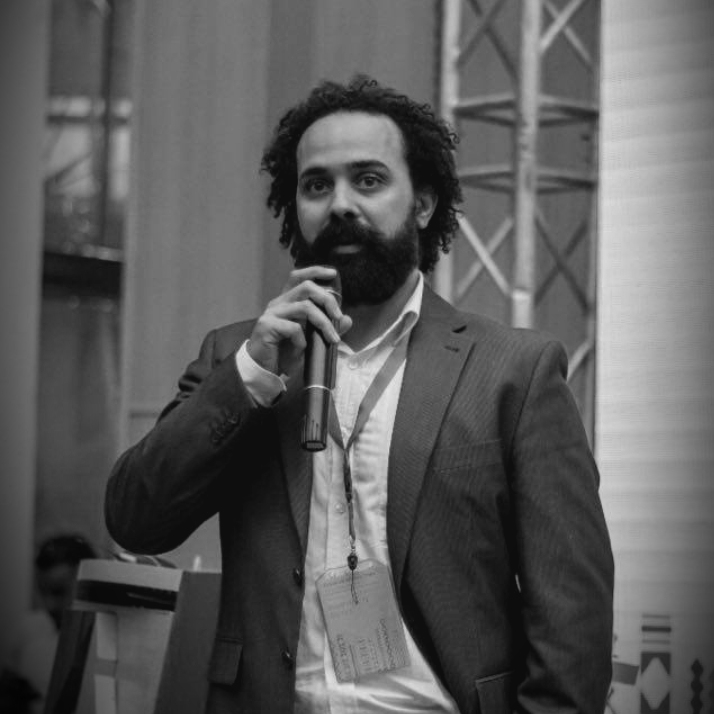
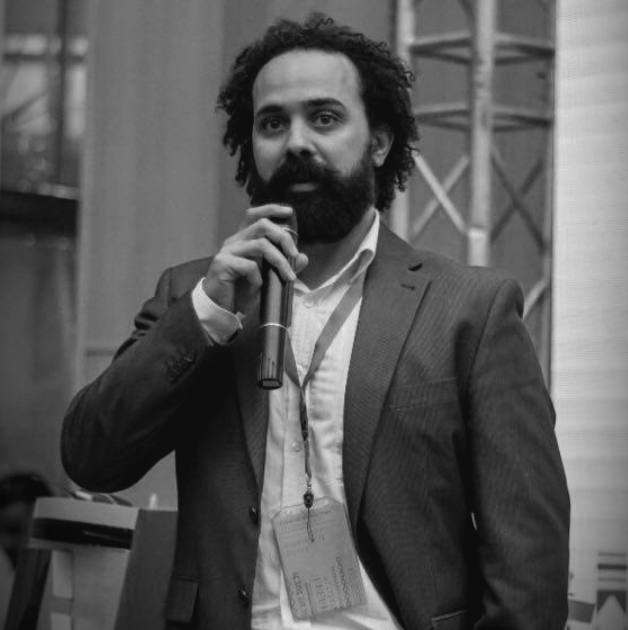
hacknight 14

diff --git a/css/main.css b/css/main.css
@@ -563,17 +563,32 @@ color: #1f1f1f;
 {
 	/* 
 	 * border: 7px solid black;
+box-shadow: 0 20px 50px rgba(240, 46, 170, 0.7);
 	 */
 box-shadow: 0 8px 6px -6px black !important;
 filter: brightness(1.5) grayscale(1);
 mix-blend-mode: multiply;
+width: 100%;
+display: block;
+position: relative;
 /* 
+margin-bottom: -10px !important;
+outline: 1px solid white;
+outline-offset: -4px;
+
 width: auto;
 max-height:100% !important;
 max-width:100% !important;
 height: auto;
  * height: auto;
 width: auto;
+background: -moz-linear-gradient(top,  rgba(255,255,255,0) 0%, rgba(255,255,255,1) 80%);
+background: -webkit-gradient(linear, left top, left bottom, color-stop(0%,rgba(255,255,255,0)), color-stop(80%,rgba(255,255,255,1)));
+background: -webkit-linear-gradient(top,  rgba(255,255,255,0) 0%,rgba(255,255,255,1) 80%);
+background: -o-linear-gradient(top,  rgba(255,255,255,0) 0%,rgba(255,255,255,1) 80%);
+background: -ms-linear-gradient(top,  rgba(255,255,255,0) 0%,rgba(255,255,255,1) 80%);
+background: linear-gradient(to bottom,  rgba(255,255,255,0) 0%,rgba(255,255,255,1) 80%);
+filter: progid:DXImageTransform.Microsoft.gradient( startColorstr='#00ffffff', endColorstr='#ffffff',GradientType=0 );
 */
 }
 /*** end of citybox-hackathon ***/

diff --git a/js/main.js b/js/main.js
@@ -409,10 +409,10 @@ $("body").niceScroll({
 /***************************************/
 $("#timelineContainer").niceScroll({
 	//cursorwidth:3,
-	cursorwidth: "20px", // cursor width in pixel (you can also write "5px")
-	cursorheight: "5px", // cursor width in pixel (you can also write "5px")
-	boxzoom: false, // enable zoom for box content	
+	cursorwidth: "7px", // cursor width in pixel (you can also write "5px")
 	cursoropacitymin:0.05,
+	cursorheight: "140px", // cursor width in pixel (you can also write "5px")
+	boxzoom: false, // enable zoom for box content	
 	//cursorcolor:'#6e8cb6',
 	//cursorborder:'none',
 	//cursorborderradius:0,

diff --git a/beta.html b/beta.html
@@ -559,11 +559,13 @@
 							</br>
 							</br>
 							</br>
+							<!--
 							<div id="citybox-missionstatment-slider-container">
-								<div id="citybox-missionstatment">
-									<div class="citybox-missionstatment-photo">
-										<img style="width: 100%; height: 100%" src="img/people/mazen.png" />
-									</div>
+								<div id="citybox-missionstatment" class="citybox-missionstatment-photo">
+							-->
+							<div>
+								<div class="citybox-missionstatment-photo">
+									<img style="width: 100%;" src="img/people/mazen.png" />
 								</div>
 							</div>
 						</div>
